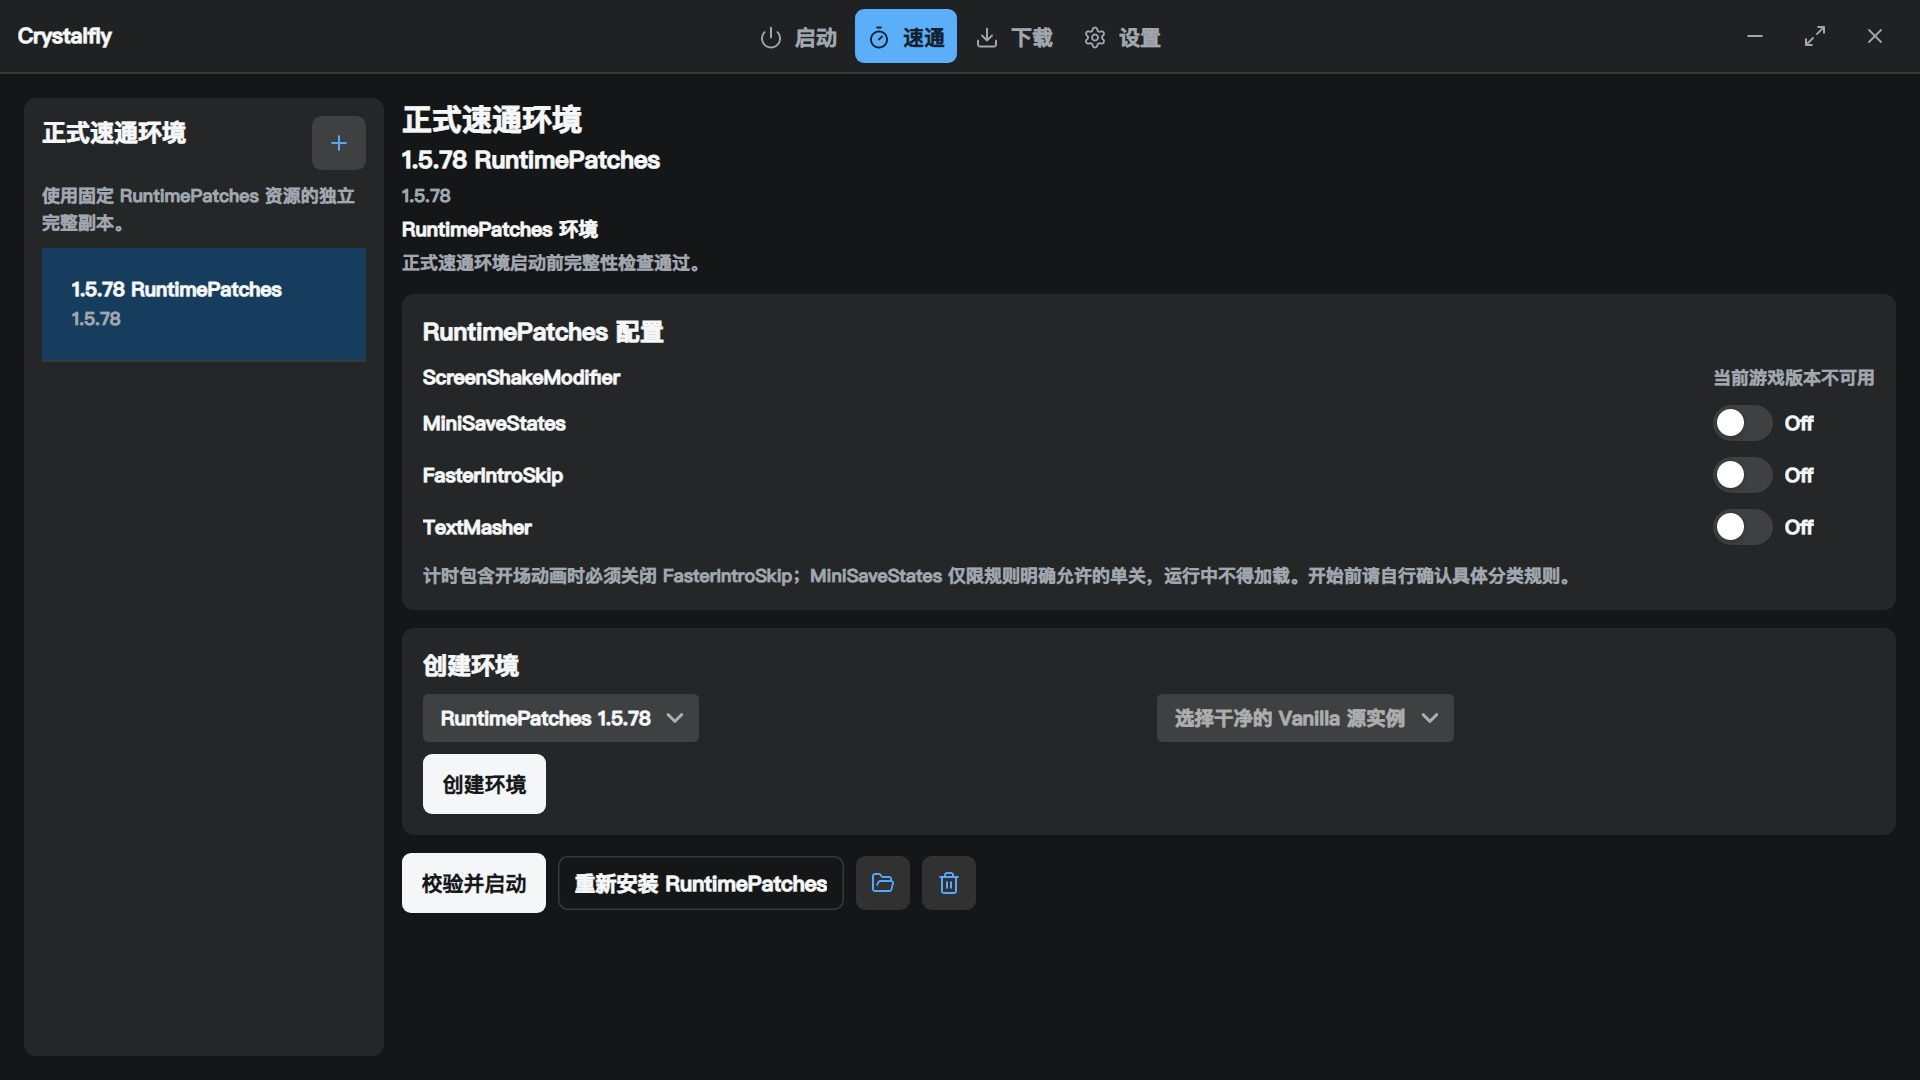
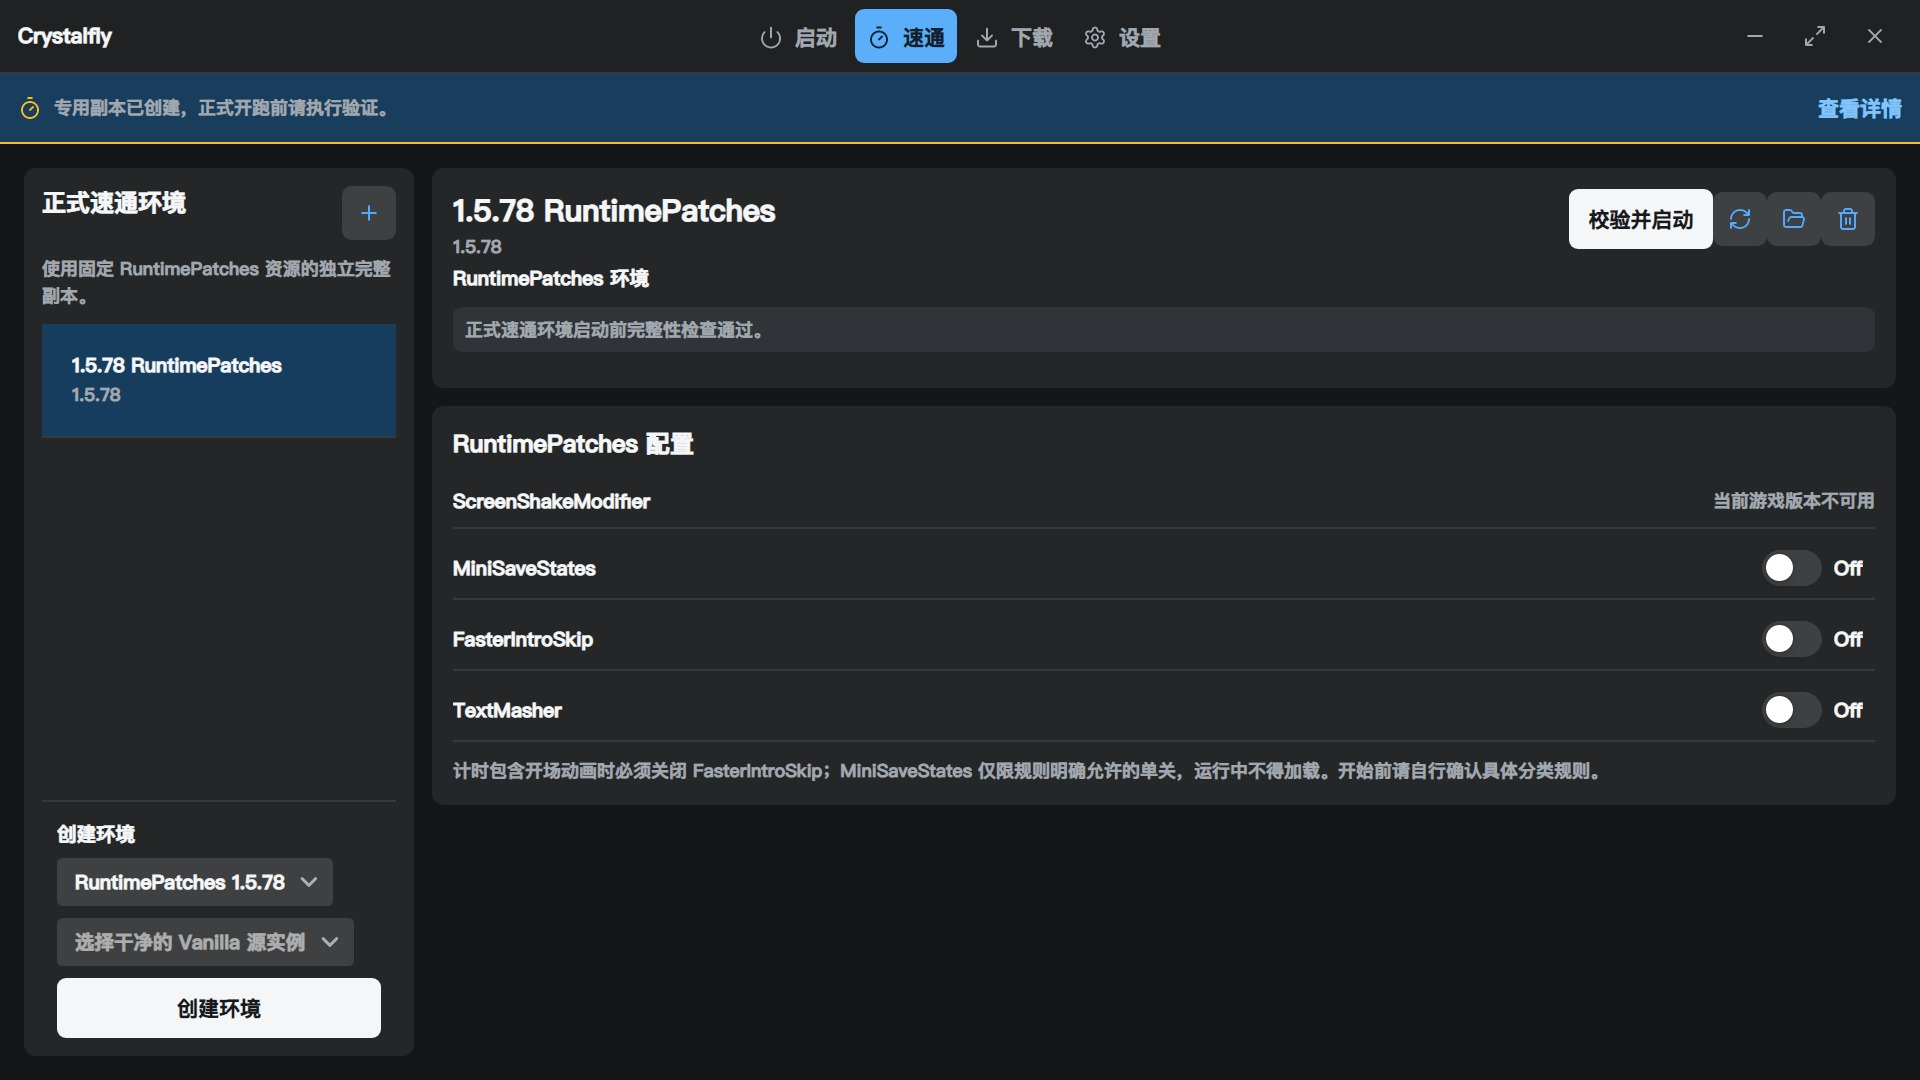
refactor: streamline speedrun workspace

diff --git a/tests/Crystalfly.App.Tests/Ui/LayoutRenderingTests.cs b/tests/Crystalfly.App.Tests/Ui/LayoutRenderingTests.cs
@@ -296,7 +296,7 @@ public sealed class LayoutRenderingTests
                 .OfType<Button>()
                 .Single(button => button.Classes.Contains("cfp-primary")
                     && Equals(button.Content, viewModel.Loc["SpeedrunCreate"]));
-            Assert.Equal(HorizontalAlignment.Left, createButton.HorizontalAlignment);
+            Assert.Equal(HorizontalAlignment.Stretch, createButton.HorizontalAlignment);
         }
         finally
         {
